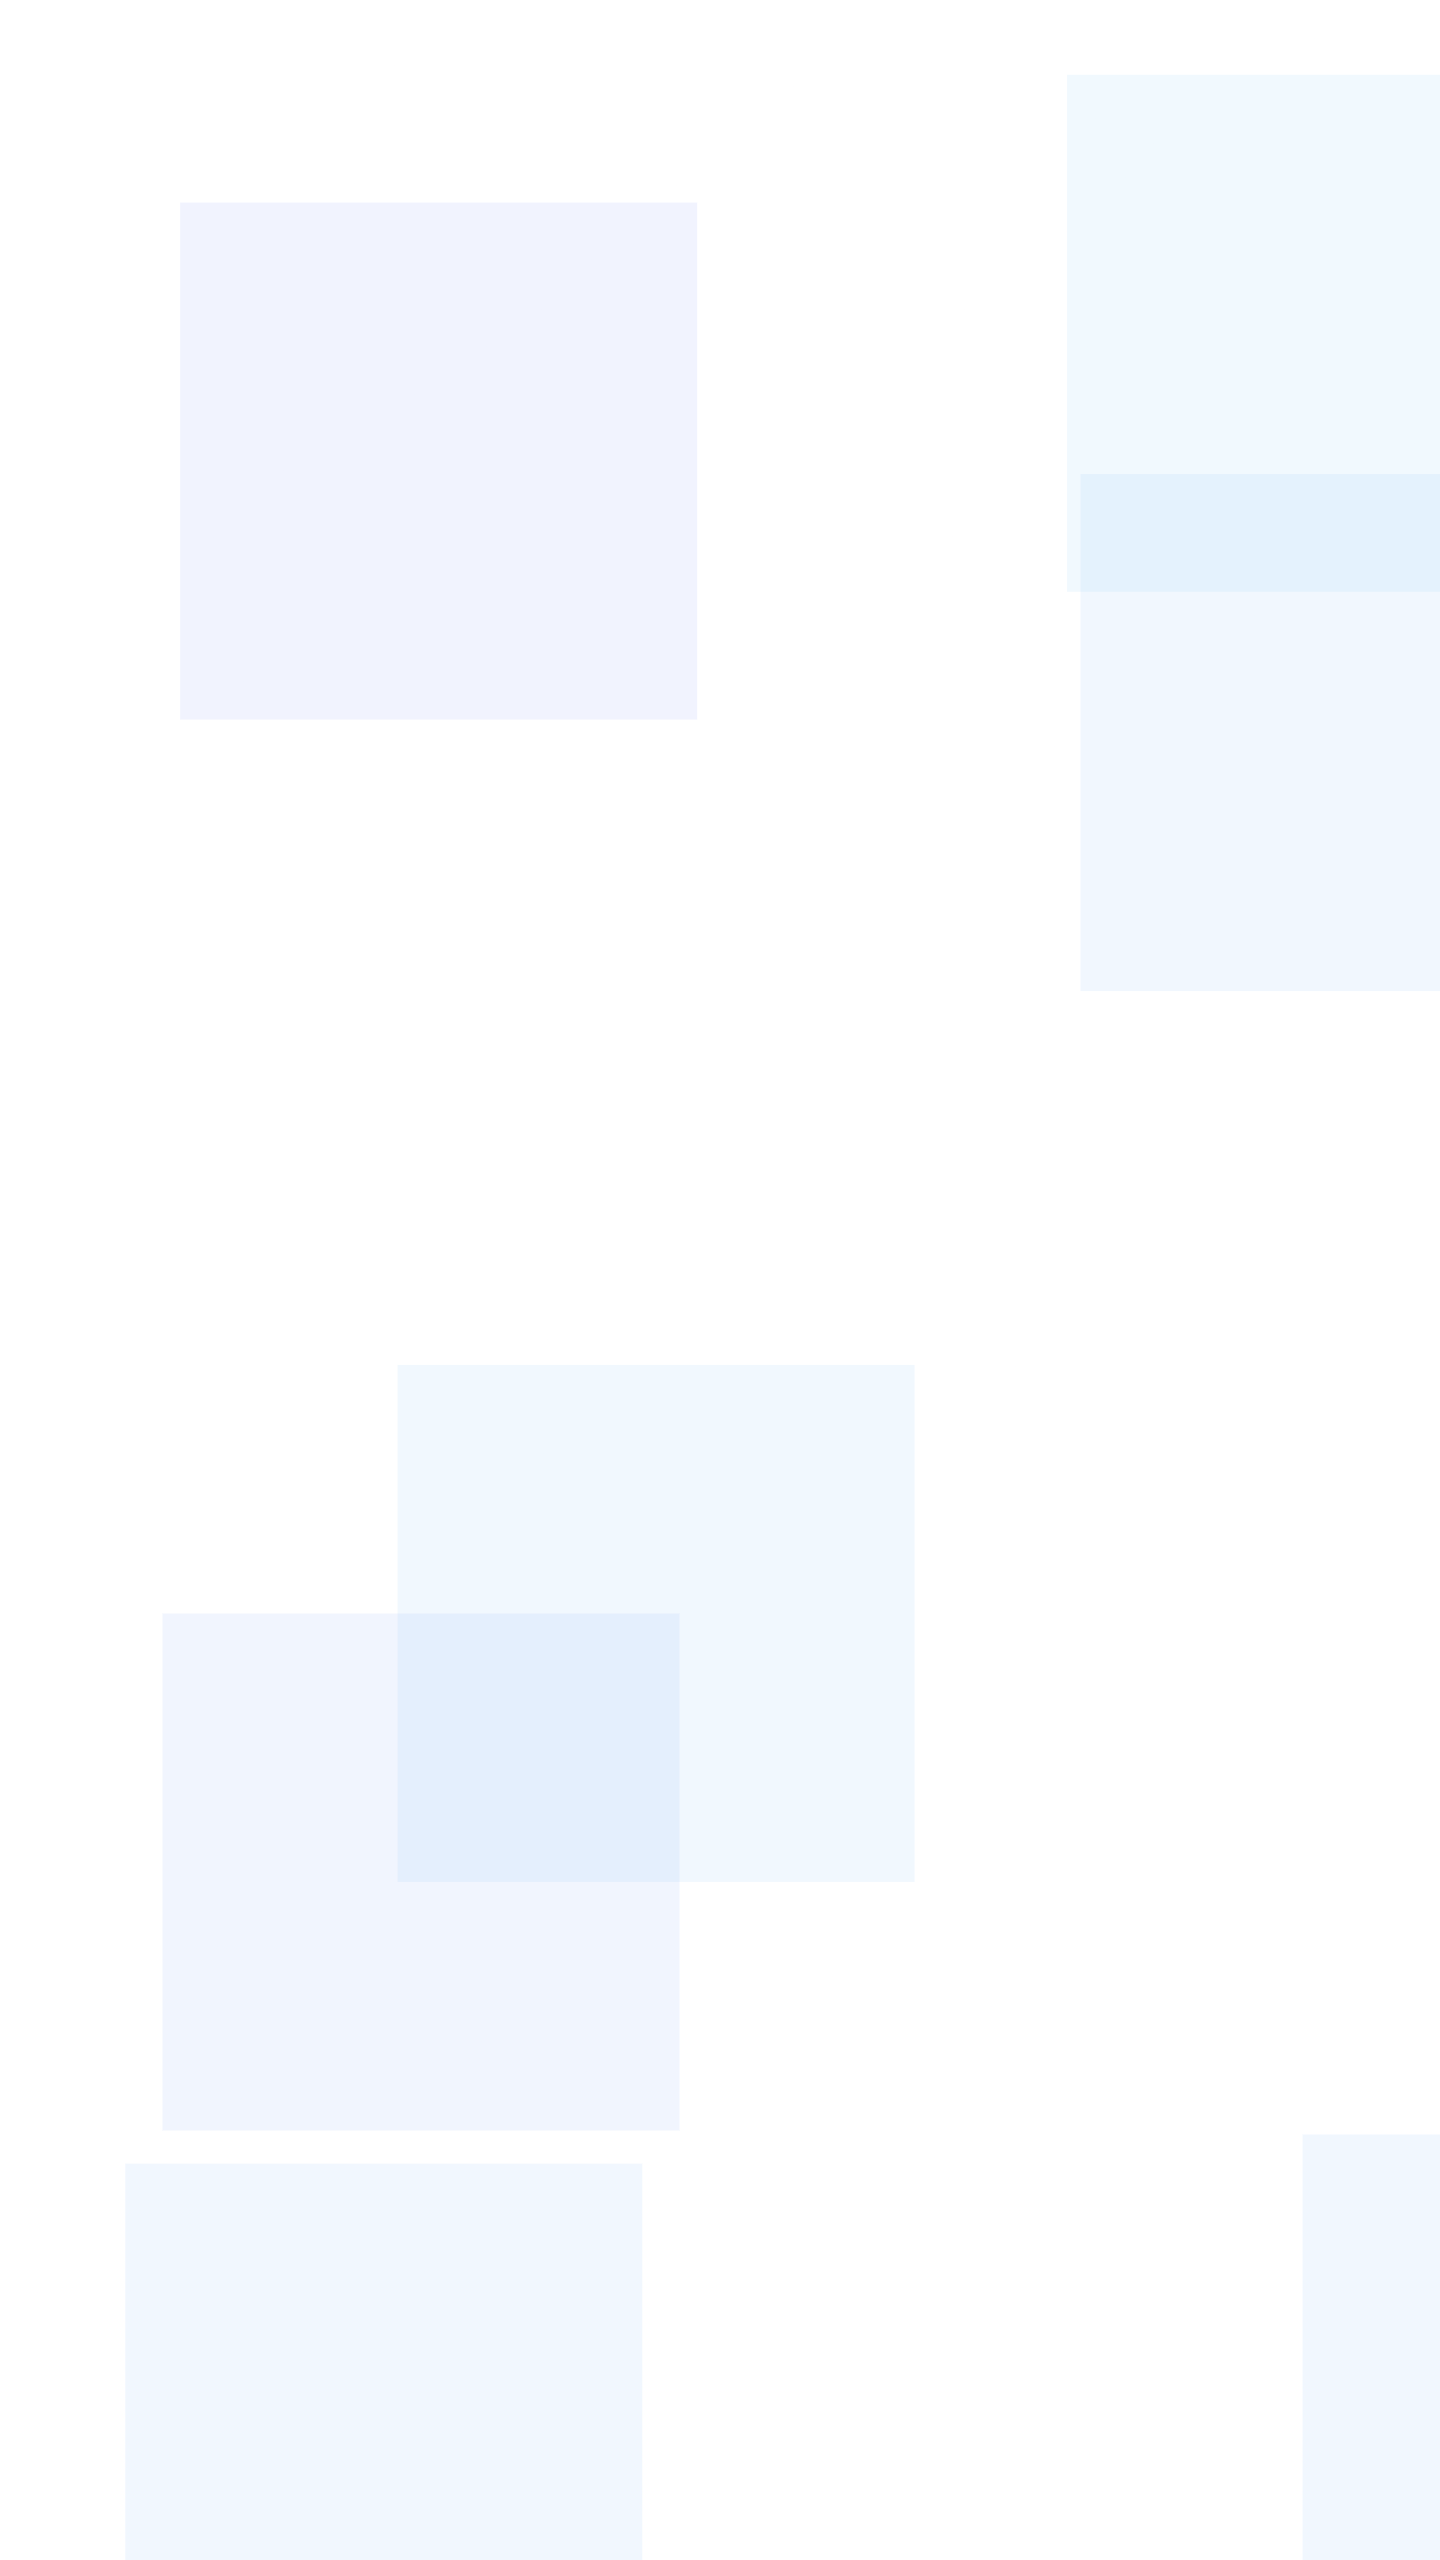
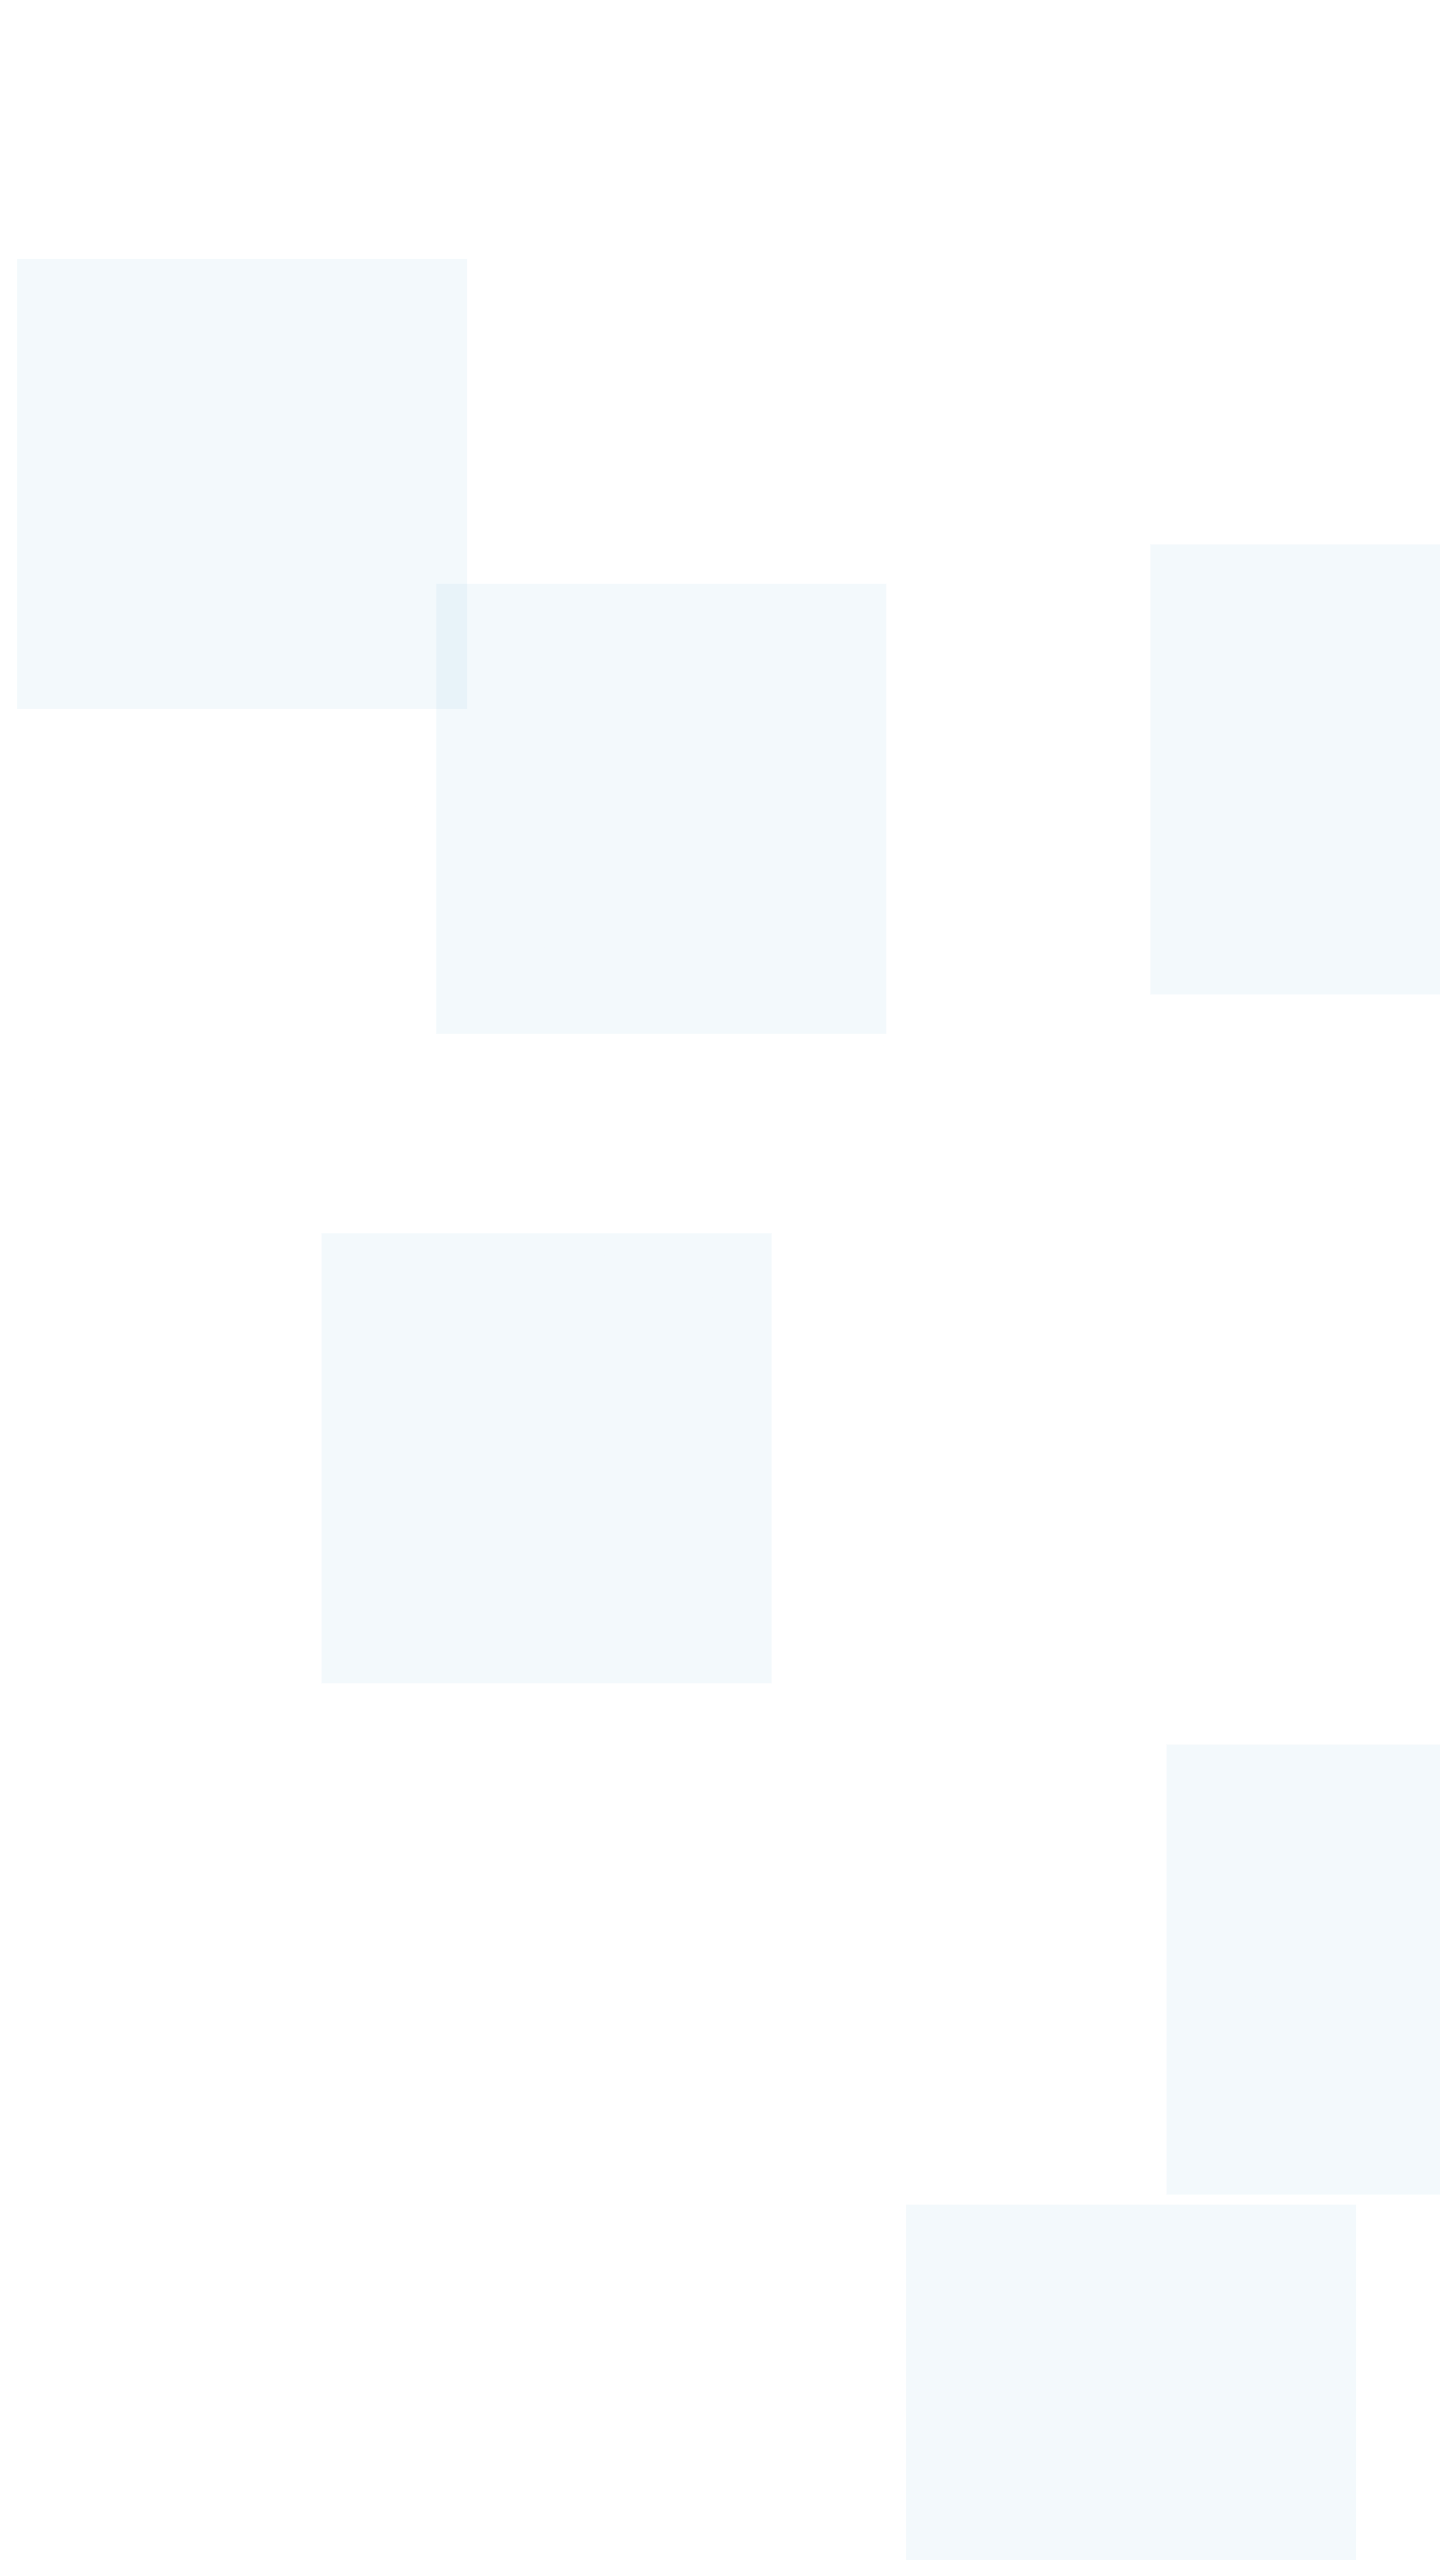
add finance, change backgound color

Changed region(s): [[0.25, 0.6562, 0.4688, 0.75], [0.75, 0.1875, 1.0, 0.25]]

diff --git a/finance.html b/finance.html
@@ -1,4 +1,4 @@
-<!DOCTYPE html>
+<!DOCTYPE html>
 
 <html lang="en">
 <head>
@@ -7,7 +7,7 @@
     <meta name="viewport" content="width=device-width, initial-scale=1.0">
 
     <!-- TODO: Enter Title -->
-    <title>vcortese - Home</title>
+    <title>vcortese - Finance</title>
 
     <!-- TODO: Enter actual link-->
     <link rel="canonical" href="https://www.vcortese.github.io/">
@@ -103,25 +103,26 @@
 
     <main id="main" class="main">
         <section class="main-landing">
-            <h1>VCortese - Home</h1>
-            <h2>This is a personal site containing helpful tools and information pertaining to anything Economics, Finance, and Game Development.</h2>
+            <h1>VCortese - Finance</h1>
+            <h2>Tips for those looking to get a hold of finances, live below means, and grow the rest! Your personal Finance Tool.</h2>
             <!--<a class="main-landing-btn" aria-label="click to call" href="tel:123-456-7890">Call</a>-->
         </section>
         <section class="main-info">
-            <h2><span>TOOLS</span> AND INFORMATION</h2>
+            <h2><span>PERSONAL</span> FINANCE STEPS</h2>
             <div class="main-divider"></div>
             <div class="main-info-card">
-                <svg><circle cx="32" cy="32" r="30" stroke=var(--primary) stroke-width="4" fill=var(--tertiary) /></svg>
-                <h3>Personal Finance</h3>
+                <h3>Step 1 - Budget</h3>
                 <h4>Tips for those looking to get a hold of finances, live below means, and grow the rest!</h4>
+                <label class="main-switch">Label
+                    <input type="checkbox">
+                    <span class="switch round"></span>
+                </label>
             </div>
             <div class="main-info-card">
-                <svg><circle cx="32" cy="32" r="30" stroke=var(--primary) stroke-width="4" fill=var(--tertiary) /></svg>
                 <h3>Second content item</h3>
                 <h4>Lorem ipsum dolor sit amet, consectetur adipiscing elit, sed do eiusmod tempor incididunt ut labore et dolore magna aliqua.</h4>
             </div>
             <div class="main-info-card">
-                <svg><circle cx="32" cy="32" r="30" stroke=var(--primary) stroke-width="4" fill=var(--tertiary) /></svg>
                 <h3>Third content item</h3>
                 <h4>Lorem ipsum dolor sit amet, consectetur adipiscing elit, sed do eiusmod tempor incididunt ut labore et dolore magna aliqua.</h4>
             </div>

diff --git a/css/utlities.css b/css/utlities.css
@@ -1,0 +1,62 @@
+/* The switch - the box around the slider */
+.main-switch {
+    position: relative;
+    display: inline-block;
+    width: 4rem;
+    height: 2rem;
+}
+
+    /* Hide default HTML checkbox */
+    .main-switch input {
+        opacity: 0;
+        width: 0;
+        height: 0;
+    }
+
+/* The slider */
+.switch {
+    position: absolute;
+    cursor: pointer;
+    top: 0;
+    left: 0;
+    right: 0;
+    bottom: 0;
+    background-color: var(--tertiary);
+    -webkit-transition: .4s;
+    transition: .4s;
+}
+
+    .switch:before {
+        position: absolute;
+        content: "";
+        height: 1.5rem;
+        width: 1.5rem;
+        left: .25rem;
+        bottom: .25rem;
+        background-color: white;
+        -webkit-transition: .4s;
+        transition: .4s;
+    }
+
+input:checked + .switch {
+    background-color:var(--primary-dark);
+}
+
+input:focus + .switch {
+    box-shadow: 0 0 1px #2196F3;
+}
+
+input:checked + .switch:before {
+    -webkit-transform: translateX(26px);
+    -ms-transform: translateX(26px);
+    transform: translateX(26px);
+}
+
+/* Rounded sliders */
+.switch.round {
+    border-radius: 2rem;
+}
+
+    .switch.round:before {
+        border-radius: 50%;
+    }

diff --git a/css/design.css b/css/design.css
@@ -177,7 +177,7 @@
     .main-info h2 {font-size:1.5rem}
     .main-info h2 span {color:var(--primary)}
 
-.main-info-divider {
+.main-divider {
     width: 50%;
     border-bottom: 2px dashed var(--primary)
 }
@@ -205,6 +205,25 @@
     .main-info-card h3 span {color:var(--tertiary)}
     .main-info-card hr {width:66%;}
     .main-info-card h4 { font-weight:500}
+
+
+.main-rates {
+    display: flex;
+    flex-direction: column;
+    align-items: center;
+    text-align: center;
+    align-content: space-around;
+    margin: 0 0 5rem 0;
+    gap: .5rem;
+}
+    .main-rates h2 {font-size:1.5rem}
+    .main-rates h2 span {color:var(--primary)}
+    .main-rates-card div {border: 1px solid black;}
+
+        .main-rates-card h3,
+        .main-rates-card h4 {
+            display:inline-block;
+        }
 
 
 /****************** Main End ******************/

diff --git a/css/root.css b/css/root.css
@@ -78,3 +78,5 @@ h6 {font-size:1rem}
     font-size: 2rem;
     color:;
 }
+
+
